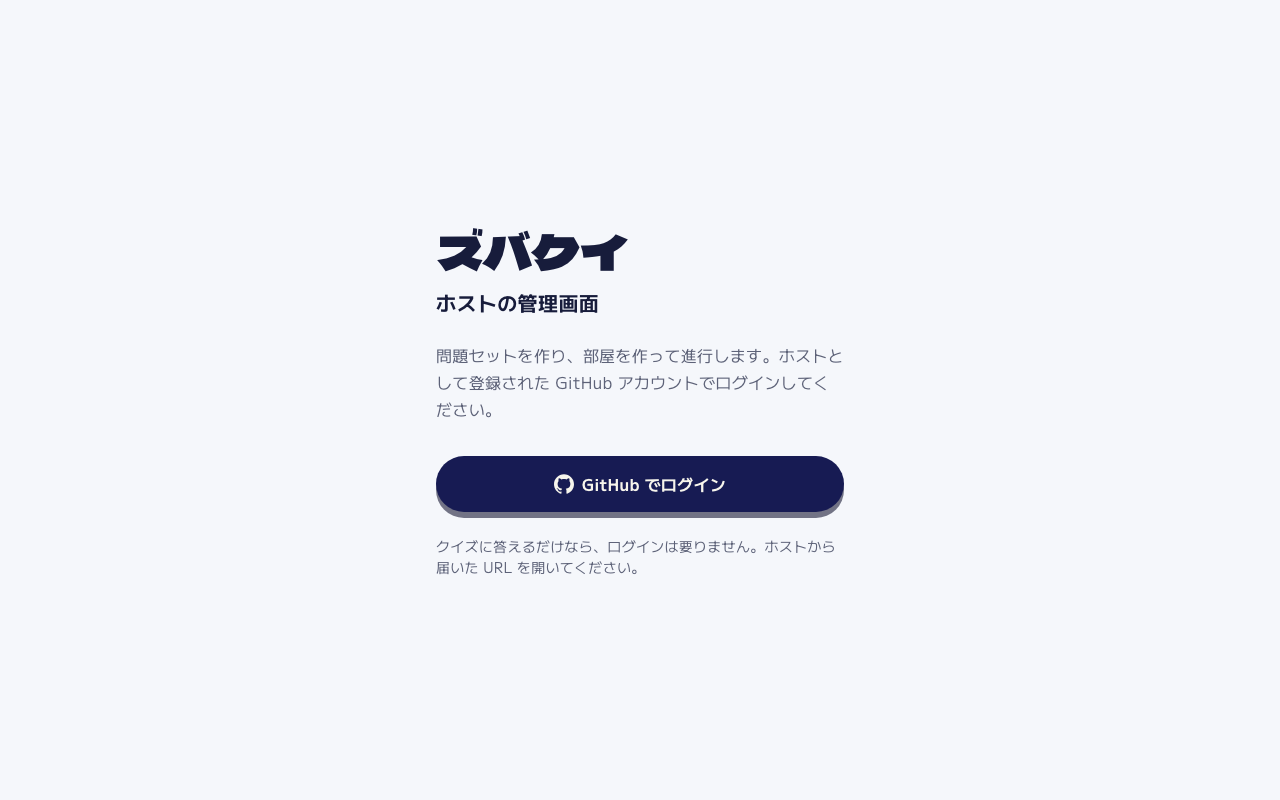
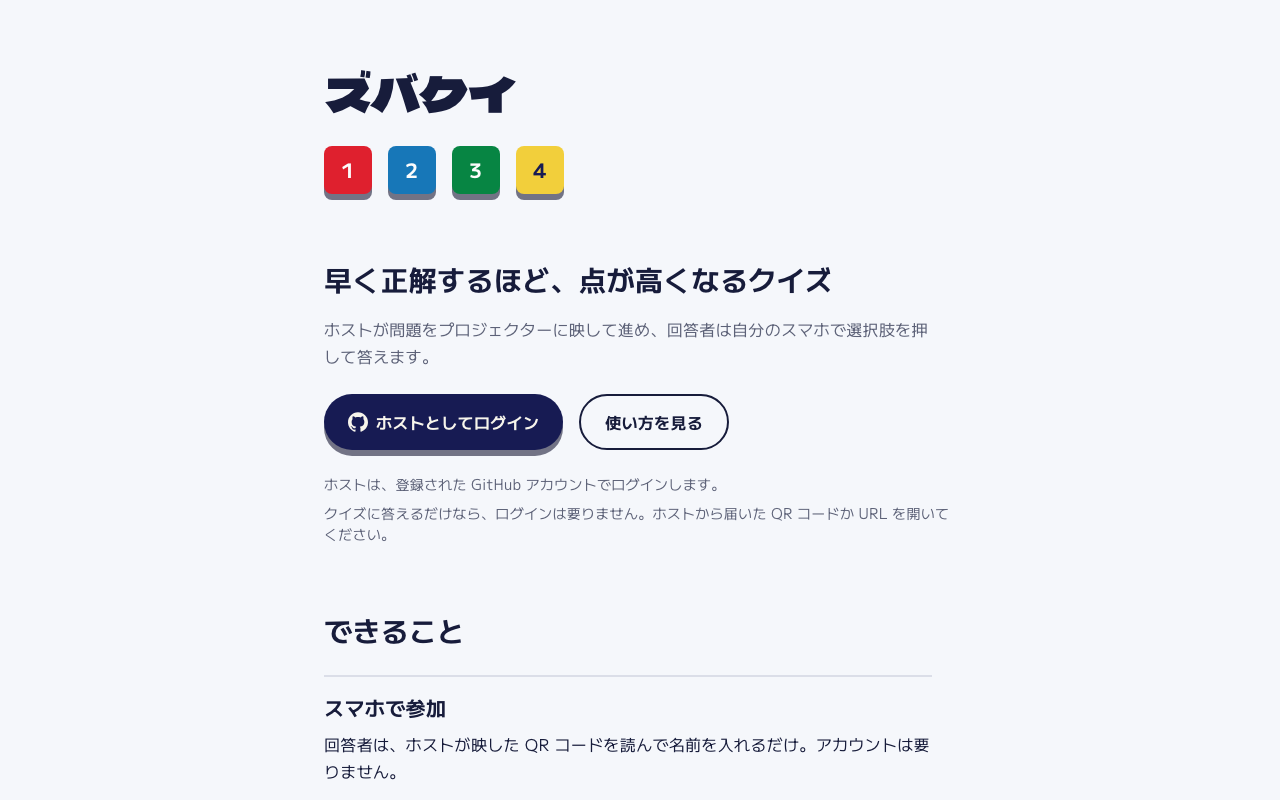
docs: 使い方のログインの手順を、入口のページから始める
ログインの手順の画像を、入口のページで撮り直す。文と alt も、入口の
「ホストとしてログイン」を押す流れに合わせる。

diff --git a/apps/web/src/features/guide/guide-steps.ts b/apps/web/src/features/guide/guide-steps.ts
@@ -44,9 +44,9 @@ export const hostSteps: readonly GuideStep[] = [
   {
     heading: 'GitHub でログインする',
     description:
-      'ホストとして登録された GitHub アカウントでログインします。登録されていないときは、開発者にアカウントを伝えてください。',
+      '入口のページで「ホストとしてログイン」を押し、ホストとして登録された GitHub アカウントでログインします。登録されていないときは、開発者にアカウントを伝えてください。',
     image: 'host-login',
-    alt: 'ログインの画面。「GitHub でログイン」のボタンがある',
+    alt: '入口のページ。アプリの紹介の下に、「ホストとしてログイン」と「使い方を見る」のボタンがある',
     device: 'pc',
   },
   {

diff --git a/e2e/guide-screenshots/capture.ts b/e2e/guide-screenshots/capture.ts
@@ -89,10 +89,10 @@ const choiceButton = (player: Page, choiceIndex: number, choice: string) =>
 test('使い方の画像を撮る', async ({ browser }) => {
   test.setTimeout(120_000);
 
-  // ログインの画面は、ログインしていない人の画面で撮る
+  // ログインの入口は、ログインしていない人の入口のページで撮る
   const visitor = await newPage(browser, 'pc');
-  await visitor.page.goto('/login');
-  await expect(visitor.page.getByRole('button', { name: 'GitHub でログイン' })).toBeVisible();
+  await visitor.page.goto('/');
+  await expect(visitor.page.getByRole('button', { name: 'ホストとしてログイン' })).toBeVisible();
   await shot(visitor.page, 'host-login');
 
   // 問題セットを作る
